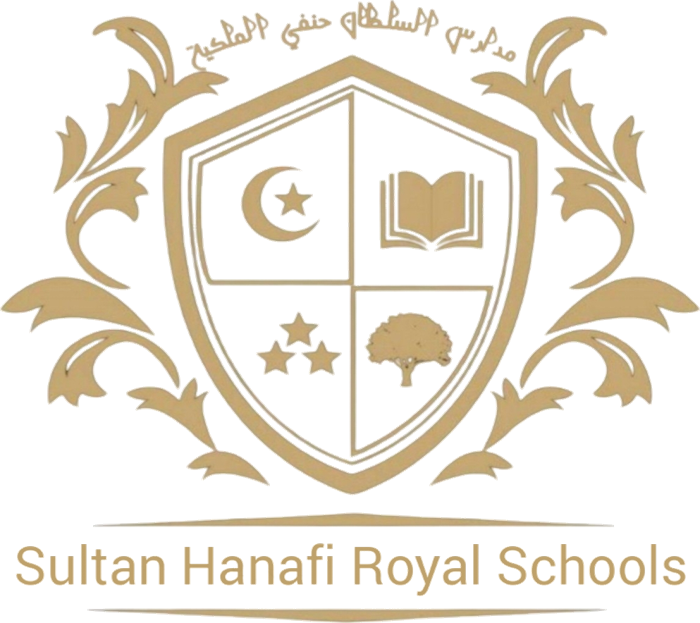
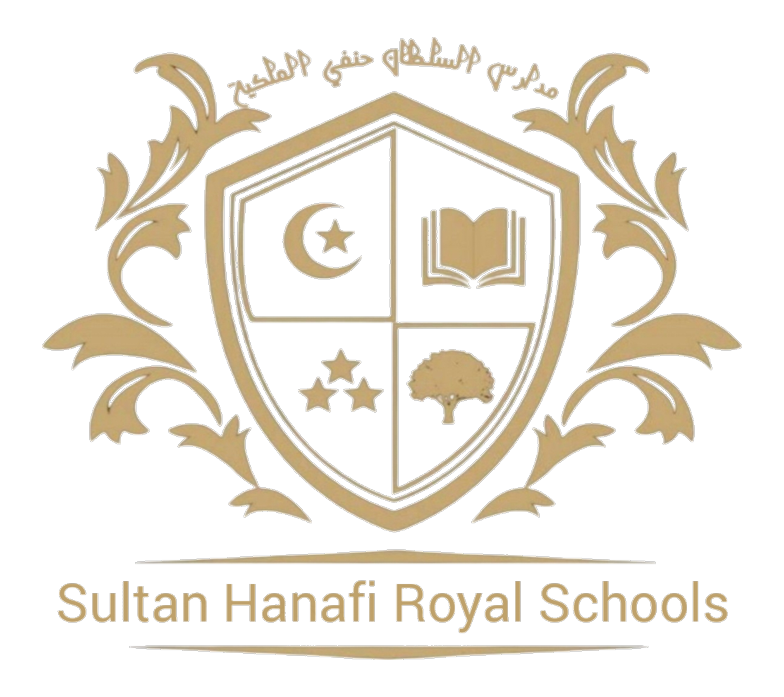
Bigger, centred header crest; remove decorative frames; fix crest edge-crop; add read-more
The header crest was sized to roughly match the wordmark's own stacked
height (66px against ~62px of text) — the two read as equal partners
rather than a seal carrying a name. Enlarged to 92px (76px on mobile,
64px in the scrolled/condensed state) so the crest unmistakably leads.
The wordmark's three lines (name, "Royal Schools", the Arabic line)
were left-aligned against each other despite being three different
widths, reading as ragged; centred them on one axis instead.

Removed the decorative rectangular frame with corner brackets that sat
over every hero photograph (the homepage and all dozen .pr-hero interior
pages) — flagged before, softened once already (css/prestige.css's own
comment calls it "the owner's literal complaint"), removed outright this
time rather than softened again. Markup is left in place, hidden via
CSS, so restoring it is not a rebuild.

Fixed a real defect in assets/images/crest-full.png: the ornamental
scrollwork touched the canvas edge on both sides with zero margin —
confirmed by inspecting the raw pixels, not just by eye — which read as
a cut-off, unfinished crest, especially wherever the image sits inside
a bordered container. Added transparent padding on all sides. The
underlying artwork's own edge tips remain exactly as exported (no
fabricated detail); what this fixes is the crest touching its own frame.

Added a reusable progressive-disclosure component (data-readmore in
js/site.js + css/brand.css) — clamps a block to a few lines with a
[…]

diff --git a/pages/academics.html b/pages/academics.html
@@ -71,7 +71,7 @@
         <div class="ic-body">
           <span class="ic-tag">Ages 2–10 · Day</span>
           <h3>Sultan Hanafi Nursery and Primary School</h3>
-          <p class="ic-desc">A child arrives at two and leaves at ten able to read, to reason, and to pray without being reminded. The Nigerian curriculum and daily Islamic formation are one upbringing here, taught by the same staff, in the same room, to the same child. Entrepreneurial thinking and basic technology are introduced at this stage rather than deferred to secondary school; Coding already appears on the Junior School's assessment schedule. Led by Head Teacher Mrs. Mariam Tope Anofi-AbdulKareem.</p>
+          <p class="ic-desc" data-readmore data-readmore-lines="3">A child arrives at two and leaves at ten able to read, to reason, and to pray without being reminded. The Nigerian curriculum and daily Islamic formation are one upbringing here, taught by the same staff, in the same room, to the same child. Entrepreneurial thinking and basic technology are introduced at this stage rather than deferred to secondary school; Coding already appears on the Junior School's assessment schedule. Led by Head Teacher Mrs. Mariam Tope Anofi-AbdulKareem.</p>
           <div class="ic-meta">
             <span class="ic-meta-item"><b>Curriculum</b>Nigerian curriculum, Islamic-infused</span>
             <span class="ic-meta-item"><b>Learning Model</b>Whole-child, secular + Islamic</span>
@@ -103,7 +103,7 @@
         <div class="ic-body">
           <span class="ic-tag">Ages 10–18 · Day · Est. 2021</span>
           <h3>Sultan Hanafi Royal College</h3>
-          <p class="ic-desc">Established in 2021, Royal College carries a student from JSS 1 to SSS 3 through its academic departments, to the BECE and then to WAEC and NECO. Biology, physics and chemistry are taught in dedicated laboratories on campus. Arabic and the Islamic Sciences are departments here, timetabled, examined and staffed on the same terms as the sciences, which is the clearest statement this school makes about what it believes. Led by Dr. Adegoke Musa Olatunji.</p>
+          <p class="ic-desc" data-readmore data-readmore-lines="3">Established in 2021, Royal College carries a student from JSS 1 to SSS 3 through its academic departments, to the BECE and then to WAEC and NECO. Biology, physics and chemistry are taught in dedicated laboratories on campus. Arabic and the Islamic Sciences are departments here, timetabled, examined and staffed on the same terms as the sciences, which is the clearest statement this school makes about what it believes. Led by Dr. Adegoke Musa Olatunji.</p>
           <div class="ic-meta">
             <span class="ic-meta-item"><b>Curriculum</b>Nigerian National Curriculum</span>
             <span class="ic-meta-item"><b>Learning Model</b>Subject departments, JSS 1 to SSS 3</span>
@@ -131,7 +131,7 @@
         <div class="ic-body">
           <span class="ic-tag">All Ages · Weekday &amp; Weekend</span>
           <h3>Sultan Hanafi School of Islamic and Arabic Studies</h3>
-          <p class="ic-desc">The one institution here open to the whole community, not only to enrolled pupils, and adults are welcome. Arabic is taken to genuine proficiency and the Islamic sciences are taught on the Saudi Arabian curriculum, on a weekday and weekend timetable built to fit around work and school, following the same standard admission process as the school's other enrolled institutions. Open to the wider Muslim Ummah. Led by Principal Shaykh Abubakr Solah.</p>
+          <p class="ic-desc" data-readmore data-readmore-lines="3">The one institution here open to the whole community, not only to enrolled pupils, and adults are welcome. Arabic is taken to genuine proficiency and the Islamic sciences are taught on the Saudi Arabian curriculum, on a weekday and weekend timetable built to fit around work and school, following the same standard admission process as the school's other enrolled institutions. Open to the wider Muslim Ummah. Led by Principal Shaykh Abubakr Solah.</p>
           <div class="ic-meta">
             <span class="ic-meta-item"><b>Curriculum</b>Saudi Arabian curriculum</span>
             <span class="ic-meta-item"><b>Learning Model</b>Flexible weekday &amp; weekend timetable</span>
@@ -163,7 +163,7 @@
         <div class="ic-body">
           <span class="ic-tag">Day &amp; Boarding · 24–36 Months</span>
           <h3>Sultan Hanafi Qur'an College</h3>
-          <p class="ic-desc">All thirty Juz' of the Qur'an committed to memory and kept there. Hifz is that memorisation, and it takes most students 24 to 36 months, by day or in boarding. New memorisation is paired with scheduled Muraja'ah, and a weekly check verifies that last week's work is still held before a student moves on. Tajweed, the discipline governing exact articulation, length and pausing in recitation, is treated as inseparable from the memorisation itself. Led by Imam Ahmad Sulaimiy. Boarding is for ages 9 to 16.</p>
+          <p class="ic-desc" data-readmore data-readmore-lines="3">All thirty Juz' of the Qur'an committed to memory and kept there. Hifz is that memorisation, and it takes most students 24 to 36 months, by day or in boarding. New memorisation is paired with scheduled Muraja'ah, and a weekly check verifies that last week's work is still held before a student moves on. Tajweed, the discipline governing exact articulation, length and pausing in recitation, is treated as inseparable from the memorisation itself. Led by Imam Ahmad Sulaimiy. Boarding is for ages 9 to 16.</p>
           <div class="ic-meta">
             <span class="ic-meta-item"><b>Curriculum</b>Hifz &amp; Qur'anic Sciences</span>
             <span class="ic-meta-item"><b>Learning Model</b>Intensive memorisation, 24–36 months</span>
@@ -190,7 +190,7 @@
         <div class="ic-body">
           <span class="ic-tag">Newly Established</span>
           <h3>Sultan Hanafi Online &amp; Distance Learning School</h3>
-          <p class="ic-desc">The fifth institution, constituted under the office of the Head of Schools / Administrator to carry Sultan Hanafi teaching beyond Ikorodu. Its programme, curriculum and faculty are settled by that office and published upon adoption.</p>
+          <p class="ic-desc" data-readmore data-readmore-lines="3">The fifth institution, constituted under the office of the Head of Schools / Administrator to carry Sultan Hanafi teaching beyond Ikorodu. Its programme, curriculum and faculty are settled by that office and published upon adoption.</p>
           <div class="ic-ctas">
             <a href="/academics/online-distance-learning/" class="ic-cta is-primary">View School <span class="arrow">→</span></a>
           </div>

diff --git a/pages/academics.ar.html b/pages/academics.ar.html
@@ -18,7 +18,7 @@
         <div class="ic-body">
           <span class="ic-tag">من 2 إلى 10 سنوات · نهاري</span>
           <h3>مدرسة سلطان حنفي الأساسية</h3>
-          <p class="ic-desc">أساس شامل لسنوات الطفولة المبكرة يمزج المنهج النيجيري العصري بتكوين الشخصية الإسلامية اليومي، بقيادة المعلمة الأولى السيدة مريم توبي أنوفي-عبدالكريم.</p>
+          <p class="ic-desc" data-readmore data-readmore-lines="3" data-readmore-more="اقرأ المزيد" data-readmore-less="عرض أقل">أساس شامل لسنوات الطفولة المبكرة يمزج المنهج النيجيري العصري بتكوين الشخصية الإسلامية اليومي، بقيادة المعلمة الأولى السيدة مريم توبي أنوفي-عبدالكريم.</p>
           <div class="ic-meta">
             <span class="ic-meta-item"><b>المنهج</b>منهج نيجيري ممزوج بتعاليم إسلامية</span>
             <span class="ic-meta-item"><b>النموذج التعليمي</b>تنمية شاملة، عصري + إسلامي</span>
@@ -50,7 +50,7 @@
         <div class="ic-body">
           <span class="ic-tag">10 سنوات فأكثر · نهاري · تأسست 2021</span>
           <h3>كلية سلطان حنفي العلمانية</h3>
-          <p class="ic-desc">كلية ثانوية تقدّم المنهج الوطني النيجيري عبر سبعة أقسام أكاديمية، منها قسم العلوم العربية والإسلامية.</p>
+          <p class="ic-desc" data-readmore data-readmore-lines="3" data-readmore-more="اقرأ المزيد" data-readmore-less="عرض أقل">كلية ثانوية تقدّم المنهج الوطني النيجيري عبر سبعة أقسام أكاديمية، منها قسم العلوم العربية والإسلامية.</p>
           <div class="ic-meta">
             <span class="ic-meta-item"><b>المنهج</b>المنهج الوطني النيجيري</span>
             <span class="ic-meta-item"><b>النموذج التعليمي</b>7 أقسام دراسية</span>
@@ -78,7 +78,7 @@
         <div class="ic-body">
           <span class="ic-tag">لجميع الأعمار · أيام الأسبوع ونهايته</span>
           <h3>كلية سلطان حنفي الإسلامية</h3>
-          <p class="ic-desc">دراسات إسلامية شاملة وإتقان للغة العربية مفتوحة لعموم الأمة الإسلامية، بقيادة المدير الشيخ أبوبكر صولاه — دون الحاجة لإجراءات القبول المعتادة.</p>
+          <p class="ic-desc" data-readmore data-readmore-lines="3" data-readmore-more="اقرأ المزيد" data-readmore-less="عرض أقل">دراسات إسلامية شاملة وإتقان للغة العربية مفتوحة لعموم الأمة الإسلامية، بقيادة المدير الشيخ أبوبكر صولاه — دون الحاجة لإجراءات القبول المعتادة.</p>
           <div class="ic-meta">
             <span class="ic-meta-item"><b>المنهج</b>المنهج السعودي</span>
             <span class="ic-meta-item"><b>النموذج التعليمي</b>جدول مرن لأيام الأسبوع ونهايته</span>
@@ -110,7 +110,7 @@
         <div class="ic-body">
           <span class="ic-tag">نهاري وداخلي · 24–36 شهراً</span>
           <h3>كلية سلطان حنفي للقرآن الكريم</h3>
-          <p class="ic-desc">برنامج تحفيظ مكثّف بقيادة الإمام أحمد سليمي، يقود الطلاب من حفظ القرآن الكريم كاملاً إلى نيل الإجازة.</p>
+          <p class="ic-desc" data-readmore data-readmore-lines="3" data-readmore-more="اقرأ المزيد" data-readmore-less="عرض أقل">برنامج تحفيظ مكثّف بقيادة الإمام أحمد سليمي، يقود الطلاب من حفظ القرآن الكريم كاملاً إلى نيل الإجازة.</p>
           <div class="ic-meta">
             <span class="ic-meta-item"><b>المنهج</b>التحفيظ وعلوم القرآن</span>
             <span class="ic-meta-item"><b>النموذج التعليمي</b>حفظ مكثّف، 24–36 شهراً</span>
@@ -137,7 +137,7 @@
         <div class="ic-body">
           <span class="ic-tag">حديثة التأسيس</span>
           <h3>مدرسة سلطان حنفي للتعليم عن بُعد</h3>
-          <p class="ic-desc">مدرستنا الخامسة، أُنشئت حديثاً تحت مكتب رئيس المدارس / المدير الإداري ضمن إعادة الهيكلة الحوكمية هذه. ستُنشر هنا تفاصيل البرنامج والمنهج والطاقم عند إقرارها.</p>
+          <p class="ic-desc" data-readmore data-readmore-lines="3" data-readmore-more="اقرأ المزيد" data-readmore-less="عرض أقل">مدرستنا الخامسة، أُنشئت حديثاً تحت مكتب رئيس المدارس / المدير الإداري ضمن إعادة الهيكلة الحوكمية هذه. ستُنشر هنا تفاصيل البرنامج والمنهج والطاقم عند إقرارها.</p>
           <div class="ic-ctas">
             <a href="/ar/academics/online-distance-learning/" class="ic-cta is-primary">عرض المدرسة <span class="arrow">←</span></a>
           </div>

diff --git a/css/brand.css b/css/brand.css
@@ -376,6 +376,25 @@
   .text-link:hover{border-color:var(--crimson);}
   .text-link.on-dark{color:var(--gold-bright);border-bottom-color:rgba(var(--lv-gbs,233,206,138),0.4);}
   .text-link.on-dark:hover{border-color:var(--gold-bright);}
+
+  /* Progressive disclosure — a long paragraph clamped to a few lines
+     with a toggle beneath it (js/site.js). The crimson matches the
+     site's one other "this is clickable, plain text" signal above
+     (.text-link) rather than inventing a second link colour. */
+  [data-readmore]{
+    display:-webkit-box;-webkit-box-orient:vertical;-webkit-line-clamp:var(--rm-lines,4);
+    overflow:hidden;
+  }
+  [data-readmore].is-expanded{-webkit-line-clamp:unset;overflow:visible;display:block;}
+  .readmore-toggle{
+    display:inline-flex;align-items:center;gap:.4em;margin-top:10px;
+    font-family:var(--font-label);font-size:.7rem;letter-spacing:.08em;text-transform:uppercase;font-weight:600;
+    color:var(--crimson);background:none;border:0;border-bottom:1px solid rgba(124,31,46,0.35);
+    padding:0 0 1px;cursor:pointer;transition:border-color .25s ease,color .25s ease;
+  }
+  .readmore-toggle:hover,.readmore-toggle:focus-visible{color:var(--crimson);border-color:var(--crimson);}
+  .readmore-toggle .arrow{display:inline-block;font-size:.85em;line-height:1;transition:transform .3s ease;}
+  .readmore-toggle.is-open .arrow{transform:rotate(180deg);}
   .ledger-row a{border-bottom:1px solid transparent;}
   .ledger-row a:hover{color:var(--crimson);border-color:var(--crimson);}
   /* Cross-links between sibling pages (e.g. the four Academics schools) —
@@ -509,14 +528,24 @@
     background-size:220% 100%;opacity:0.7;animation:header-gold-drift 24s ease-in-out infinite;
   }
   @media (prefers-reduced-motion:reduce){nav.wrap::before{animation:none;}}
-  .brand{display:flex;align-items:center;gap:18px;flex-shrink:0;position:relative;}
+  .brand{display:flex;align-items:center;gap:20px;flex-shrink:0;position:relative;}
   .brand .crest-shimmer-wrap{display:inline-flex;position:relative;z-index:1;}
   .brand .crest-shimmer-wrap::after{animation-duration:10s;}
+  /* The crest leads. It was sized to roughly match the wordmark's own
+     stacked height (66px against a ~62px text block) — the two read as
+     equal partners rather than as a seal carrying a name. Enlarged so
+     the crest is unmistakably the senior element and the wordmark sits
+     within its authority, the way a seal actually works on a letterhead. */
   .brand-mark{
-    width:66px;height:66px;flex-shrink:0;
+    width:92px;height:92px;flex-shrink:0;
     animation:crestIn .9s ease .1s both, crestBreathe 9s ease-in-out 1.1s infinite;
   }
-  .brand-text{display:flex;flex-direction:column;justify-content:center;gap:4px;line-height:1;}
+  /* Centred rather than left-set: "Sultan Hanafi", "Royal Schools" and
+     the Arabic line are three different widths, and left-aligning them
+     left a ragged right edge with no relationship to the crest beside
+     it. Centring stacks them on one axis, the way a seal's own legend
+     is set. */
+  .brand-text{display:flex;flex-direction:column;justify-content:center;align-items:center;gap:4px;line-height:1;}
   .brand-text .line1{
     font-size:1.58rem;font-weight:700;letter-spacing:0.025em;font-family:var(--font-label);white-space:nowrap;line-height:1.1;
     background-image:linear-gradient(100deg,rgb(var(--lv-wh,255,255,255)) 30%,var(--gold-bright) 45%,rgb(var(--lv-wh,255,255,255)) 60%);
@@ -697,7 +726,7 @@
       background:radial-gradient(circle,var(--gold-bright) 0%,transparent 70%);
       opacity:0.2;filter:blur(9px);pointer-events:none;
     }
-    .brand-mark{width:58px;height:58px;position:relative;}
+    .brand-mark{width:76px;height:76px;position:relative;}
     .brand-text .line1{font-size:1.28rem;}
     .brand-text .line2{font-size:0.66rem;}
     .brand-text .line-dual{font-size:0.58rem;}

diff --git a/js/site.js b/js/site.js
@@ -320,3 +320,32 @@
       }
     });
   });
+
+  // Progressive disclosure for long paragraphs. Mark a block
+  // data-readmore (optionally data-readmore-lines="N", default 4) and it
+  // clamps to that many lines with a "Read more" toggle that expands it
+  // in place — no navigation, no reload, no page getting longer until a
+  // reader asks for it to. Opt-in per element, and only actually clamps
+  // blocks that overflow their own clamp height, so a short paragraph
+  // carrying the attribute by mistake never grows an empty toggle.
+  document.querySelectorAll('[data-readmore]').forEach((block) => {
+    const lines = block.dataset.readmoreLines || '4';
+    block.style.setProperty('--rm-lines', lines);
+    requestAnimationFrame(() => {
+      if (block.scrollHeight <= block.clientHeight + 4) return;
+      const moreText = block.dataset.readmoreMore || 'Read more';
+      const lessText = block.dataset.readmoreLess || 'Show less';
+      const btn = document.createElement('button');
+      btn.type = 'button';
+      btn.className = 'readmore-toggle';
+      btn.setAttribute('aria-expanded', 'false');
+      btn.innerHTML = `<span class="label">${moreText}</span><span class="arrow" aria-hidden="true">&#8964;</span>`;
+      btn.addEventListener('click', () => {
+        const open = block.classList.toggle('is-expanded');
+        btn.classList.toggle('is-open', open);
+        btn.querySelector('.label').textContent = open ? lessText : moreText;
+        btn.setAttribute('aria-expanded', String(open));
+      });
+      block.insertAdjacentElement('afterend', btn);
+    });
+  });

diff --git a/css/prestige.css b/css/prestige.css
@@ -897,6 +897,14 @@
 .pr-hero-frame > i::after{bottom:-1px;left:-1px;border-right:0;border-top:0;
   border-top-left-radius:0;border-top-right-radius:0;border-bottom-right-radius:0;}
 
+/* v3.5 above rounded and lit this frame as a compromise, on the same
+   complaint raised again since: a rectangle of lines laid over a
+   photograph of the school reads as decoration bolted on, not as part
+   of the photograph. Hidden outright this time rather than softened
+   again. Left in the markup on every .pr-hero page, so restoring it is
+   a CSS change and not a rebuild. */
+.pr-hero-frame{display:none;}
+
 /* vignette + soft hand-off into the band below, replacing the hard cut */
 .pr-hero::before{
   content:"";position:absolute;inset:0;z-index:-1;pointer-events:none;
@@ -2705,7 +2713,7 @@ header.nav.is-condensed{
   box-shadow:0 18px 40px -28px rgba(0,0,0,.95),0 1px 0 rgba(var(--lv-gbs,233,206,138),.14);}
 header.nav .brand-mark,header.nav .brand-mark img{
   transition:width .4s var(--pr-ease),height .4s var(--pr-ease);}
-header.nav.is-condensed .brand-mark{width:48px;height:48px;}
+header.nav.is-condensed .brand-mark{width:64px;height:64px;}
 header.nav .nav.wrap,header.nav nav.wrap{
   transition:padding .4s var(--pr-ease);}
 header.nav.is-condensed nav.wrap{padding-top:8px;padding-bottom:8px;}

diff --git a/css/atelier.css b/css/atelier.css
@@ -251,12 +251,13 @@ html[data-pc-motion="reduced"] section h1.page-title::after{transform:none!impor
    only overlay this hero needs now. */
 .hero::before{display:none;}
 
-/* The drawn frame becomes a double rule — a heavy line and a hairline
-   inside it, at the width a certificate border is set. */
-.hero .frame{box-shadow:inset 0 0 0 1px rgba(var(--lv-gbs,233,206,138),.14);}
-html[data-pc-ornament="full"] .hero .frame::after{
-  content:"";position:absolute;inset:7px;border:1px solid rgba(var(--lv-gs,198,161,91),.22);
-  pointer-events:none;}
+/* The drawn frame — a rectangular border with four corner brackets laid
+   over the photograph — read as a decorative afterthought rather than
+   as part of the photograph itself, and the founder asked for the
+   photograph clean, without lines over it. Hidden rather than deleted:
+   the markup (.frame, .corner) still exists in pages/home.html and
+   pages/home.ar.html should anyone want it back. */
+.hero .frame,.hero .corner{display:none;}
 
 /* The masthead sits on the page rather than floating above it: a lit
    edge along its foot, the way a raised surface catches light. */
